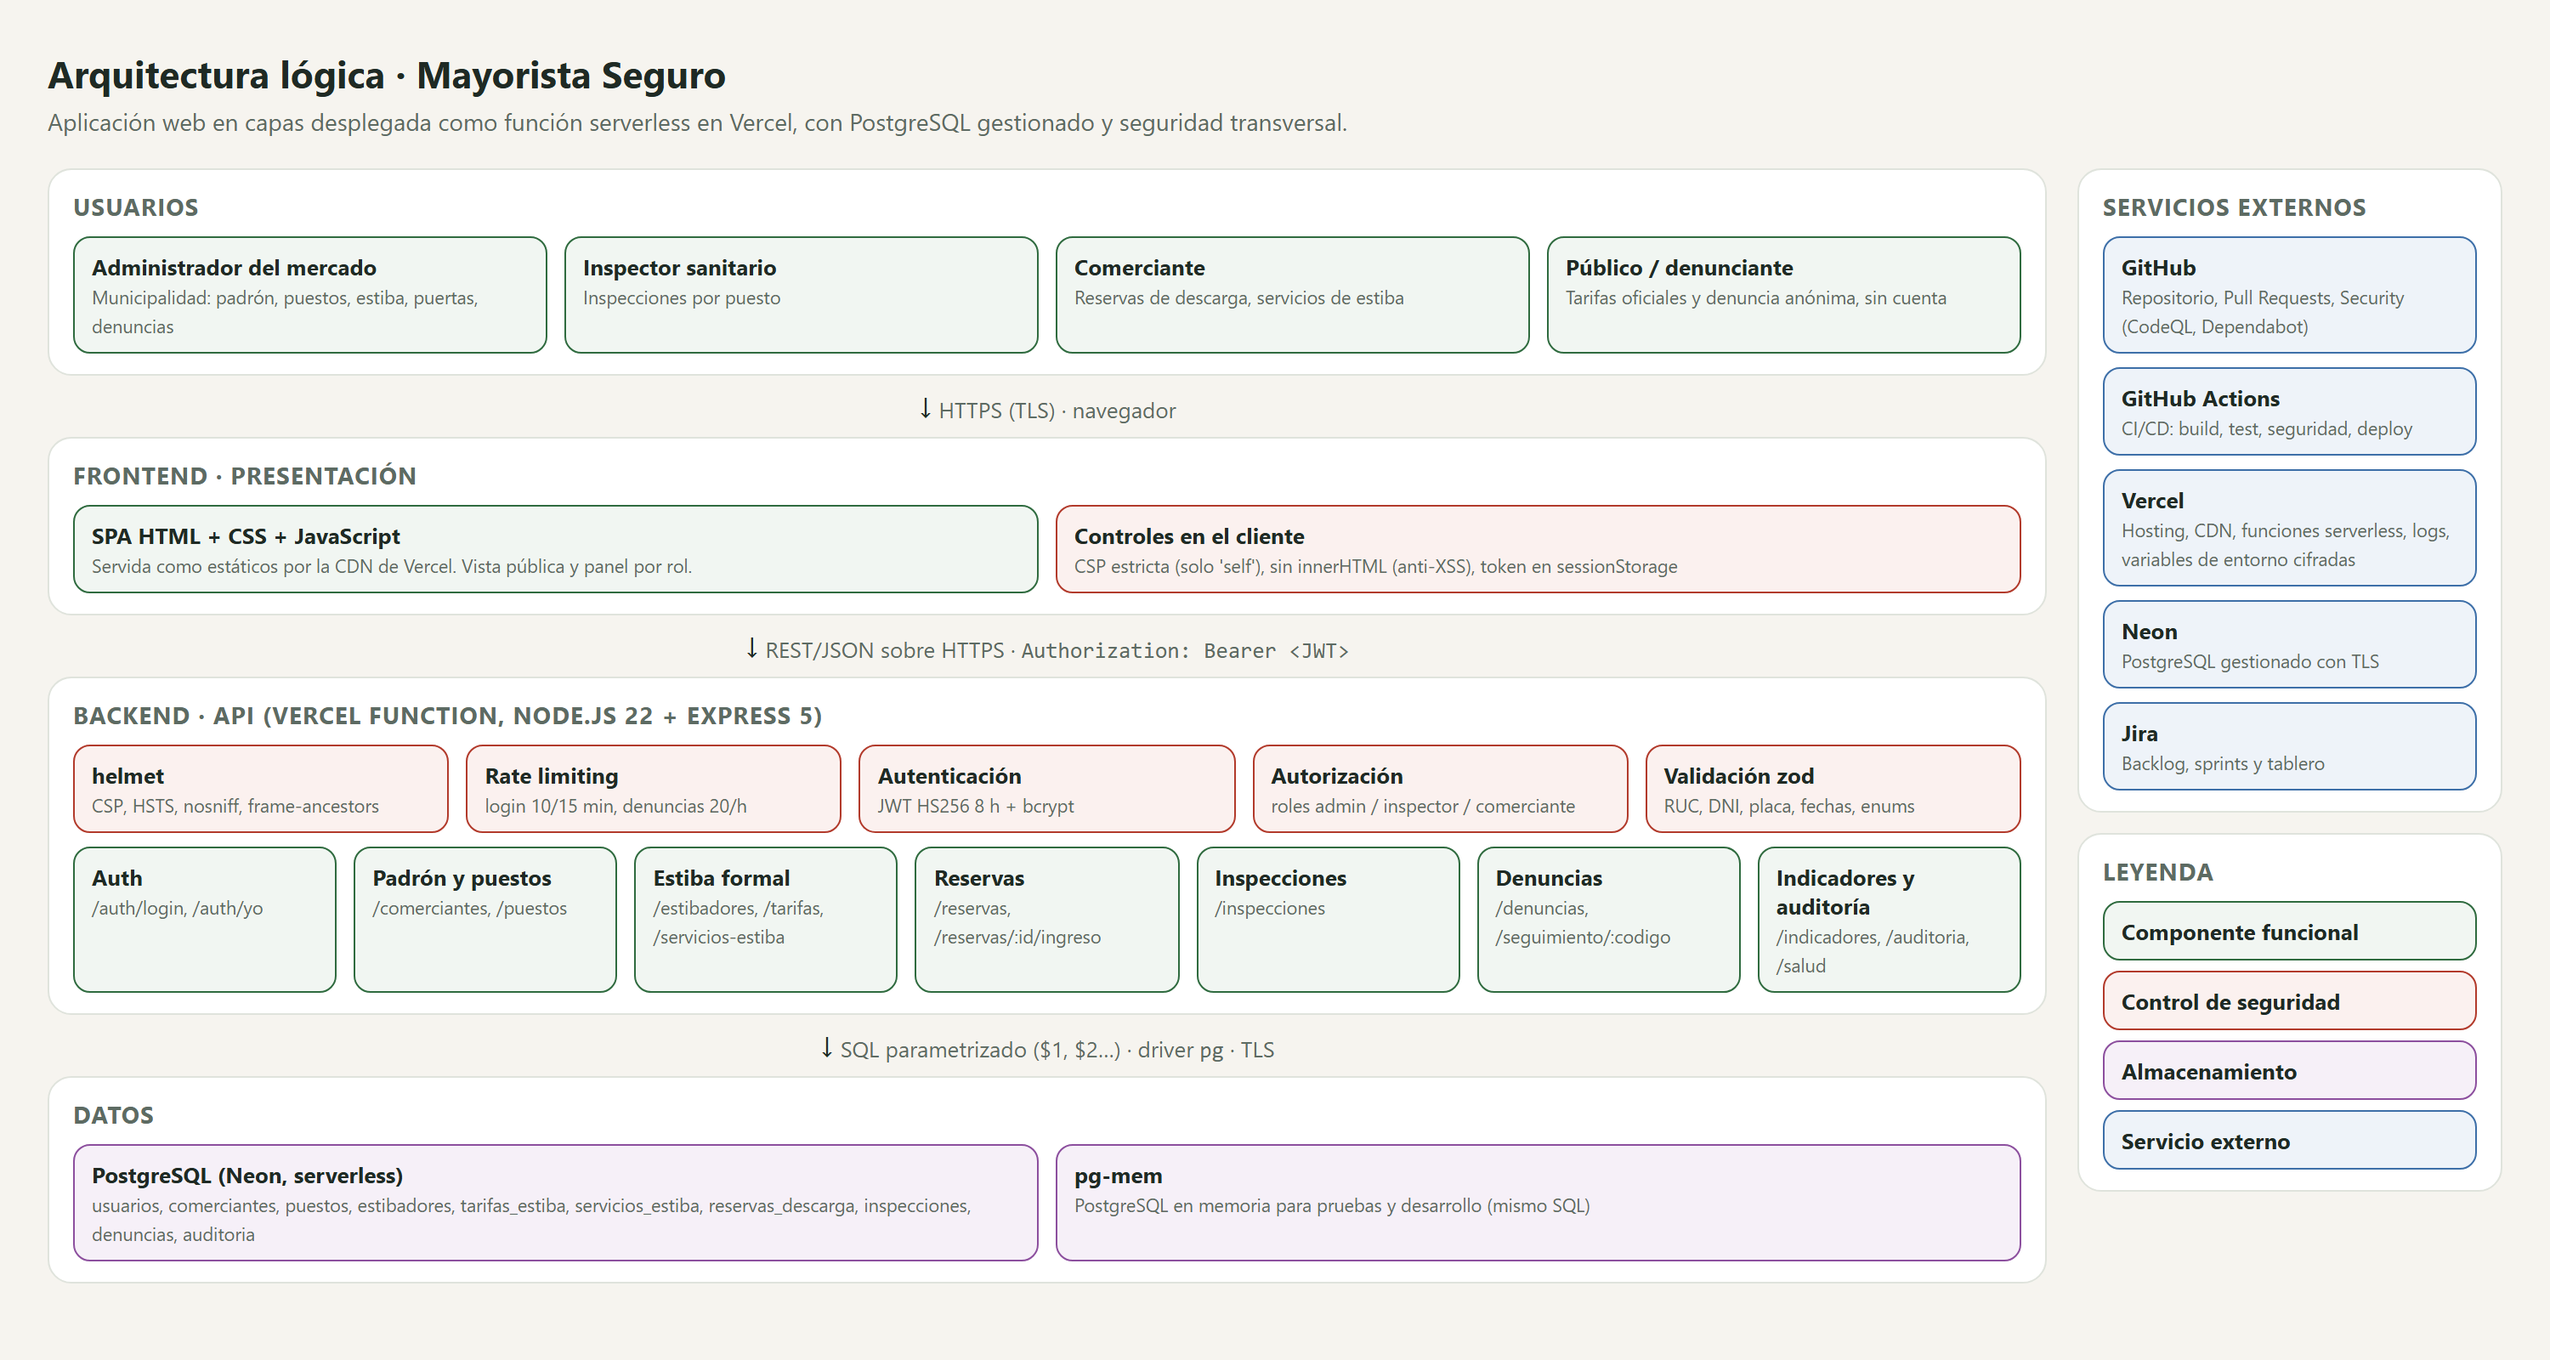
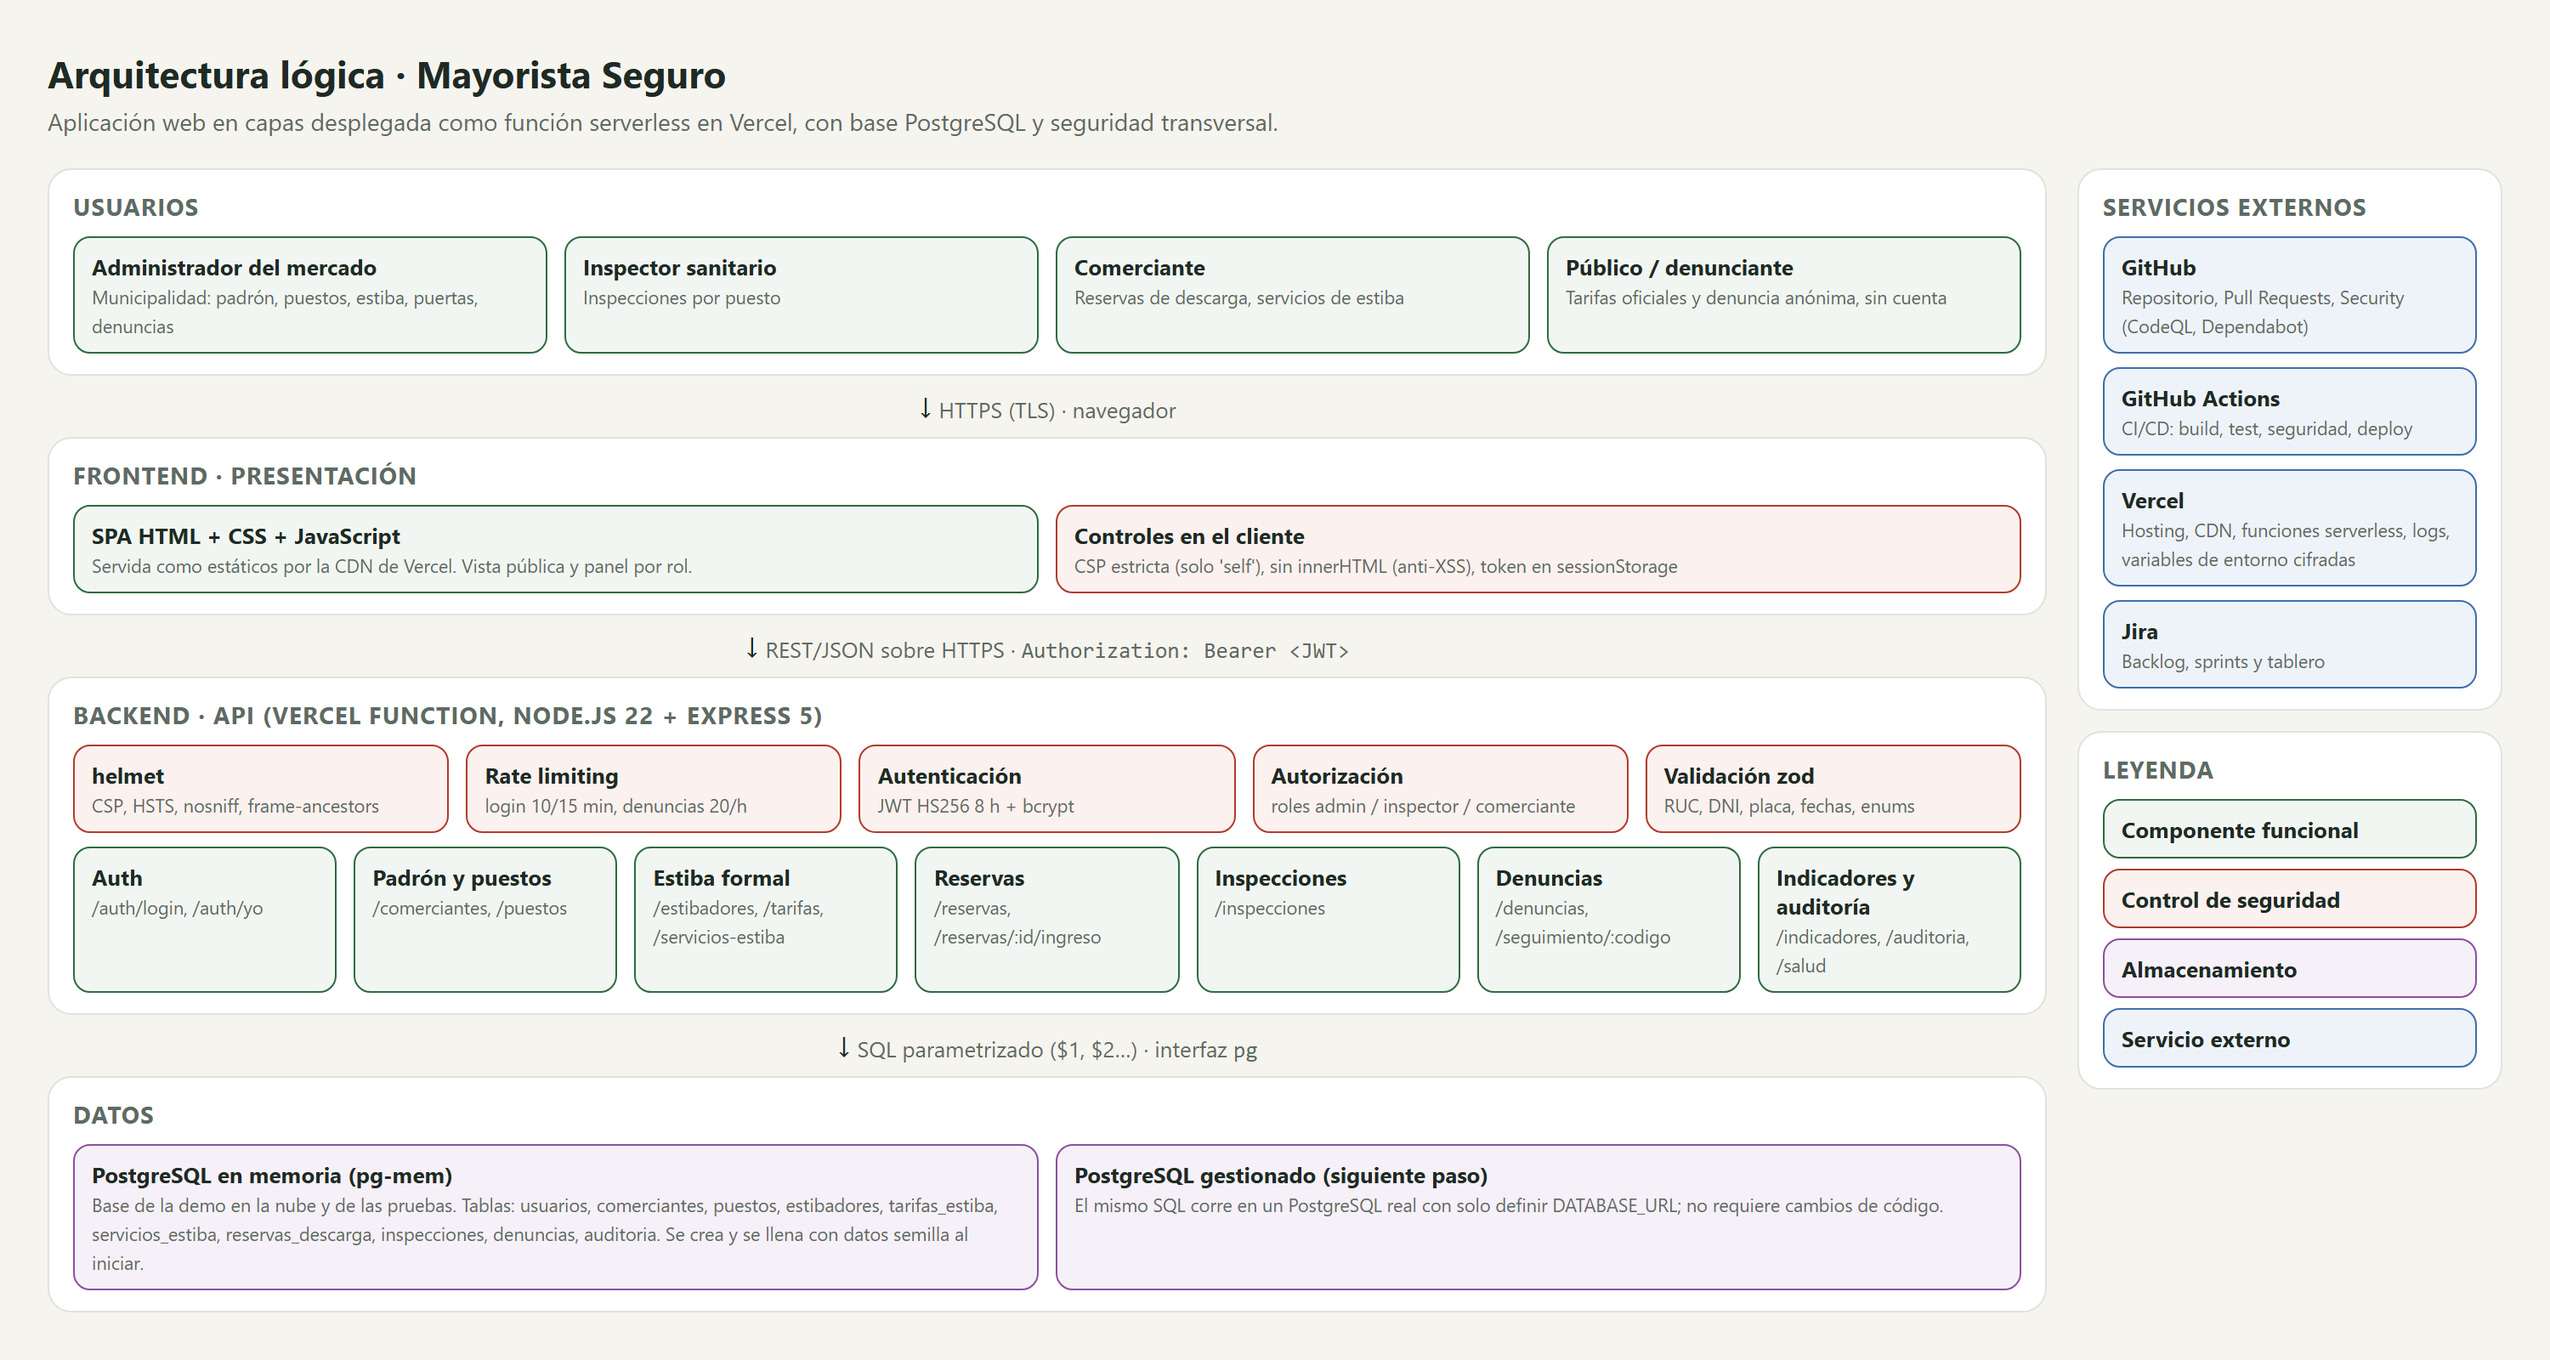
docs: arquitectura con PostgreSQL en memoria para la demo en la nube

diff --git a/docs/html/devsecops.html b/docs/html/devsecops.html
@@ -17,6 +17,6 @@ h1 { font-size: 22px; margin: 0 0 4px; }
 <h1>Ciclo de vida DevSecOps · herramientas y seguridad por fase</h1>
 <p class='sub'>La seguridad se mueve a la izquierda (shift-left): cada fase tiene un control automático que bloquea el avance si falla.</p>
 <div class='cab'><div>#</div><div>Fase</div><div>Herramienta</div><div>Uso en el proyecto</div><div>Control de seguridad integrado</div></div>
-<div class='fase'><div class='n'>1</div><div class='nom'>Plan</div><div class='c herr'><b>Jira Software (Scrum)</b></div><div class='c'>Backlog con 6 épicas y 24 historias, sprints, tablero Kanban</div><div class='c seg'>Historias de seguridad (HU04, HU05, HU06, HU09) y casos de abuso del caso (cupos, extorsión) como criterios de aceptación</div></div><div class='fase'><div class='n'>2</div><div class='nom'>Code</div><div class='c herr'><b>Git + GitHub, VS Code, ESLint</b></div><div class='c'>Ramas main / test / feature, commits convencionales, Pull Requests</div><div class='c seg'>Validación zod, SQL parametrizado, sin innerHTML, ESLint no-eval; revisión obligatoria vía PR</div></div><div class='fase'><div class='n'>3</div><div class='nom'>Build</div><div class='c herr'><b>GitHub Actions + npm ci</b></div><div class='c'>Instalación reproducible con lockfile, lint y verificación de build</div><div class='c seg'>npm audit (SCA) y Dependabot sobre dependencias y actions</div></div><div class='fase'><div class='n'>4</div><div class='nom'>Test</div><div class='c herr'><b>node:test + supertest</b></div><div class='c'>31 pruebas de integración con cobertura y reporte JUnit</div><div class='c seg'>Pruebas de seguridad: token manipulado, 403 por rol, inyección SQL, enumeración de usuarios</div></div><div class='fase'><div class='n'>5</div><div class='nom'>Release</div><div class='c herr'><b>Pull Request test → main</b></div><div class='c'>Solo se fusiona con el pipeline en verde</div><div class='c seg'>SAST con CodeQL y Semgrep, Gitleaks (secretos), dependency review</div></div><div class='fase'><div class='n'>6</div><div class='nom'>Deploy</div><div class='c herr'><b>Vercel CLI desde Actions</b></div><div class='c'>main → producción, test → preview, prueba de humo</div><div class='c seg'>Token en GitHub Secrets, JWT_SECRET y DATABASE_URL como variables cifradas, HTTPS + HSTS</div></div><div class='fase'><div class='n'>7</div><div class='nom'>Operate</div><div class='c herr'><b>Vercel Functions + Neon PostgreSQL</b></div><div class='c'>Serverless con escalado automático</div><div class='c seg'>helmet/CSP, rate limiting, roles de mínimo privilegio, TLS hacia la base</div></div><div class='fase'><div class='n'>8</div><div class='nom'>Monitor</div><div class='c herr'><b>Vercel logs, /api/salud, auditoría</b></div><div class='c'>Indicadores de negocio y salud del servicio</div><div class='c seg'>Tabla de auditoría, CodeQL semanal programado, alertas de Dependabot</div></div>
+<div class='fase'><div class='n'>1</div><div class='nom'>Plan</div><div class='c herr'><b>Jira Software (Scrum)</b></div><div class='c'>Backlog con 6 épicas y 24 historias, sprints, tablero Kanban</div><div class='c seg'>Historias de seguridad (HU04, HU05, HU06, HU09) y casos de abuso del caso (cupos, extorsión) como criterios de aceptación</div></div><div class='fase'><div class='n'>2</div><div class='nom'>Code</div><div class='c herr'><b>Git + GitHub, VS Code, ESLint</b></div><div class='c'>Ramas main / test / feature, commits convencionales, Pull Requests</div><div class='c seg'>Validación zod, SQL parametrizado, sin innerHTML, ESLint no-eval; revisión obligatoria vía PR</div></div><div class='fase'><div class='n'>3</div><div class='nom'>Build</div><div class='c herr'><b>GitHub Actions + npm ci</b></div><div class='c'>Instalación reproducible con lockfile, lint y verificación de build</div><div class='c seg'>npm audit (SCA) y Dependabot sobre dependencias y actions</div></div><div class='fase'><div class='n'>4</div><div class='nom'>Test</div><div class='c herr'><b>node:test + supertest</b></div><div class='c'>31 pruebas de integración con cobertura y reporte JUnit</div><div class='c seg'>Pruebas de seguridad: token manipulado, 403 por rol, inyección SQL, enumeración de usuarios</div></div><div class='fase'><div class='n'>5</div><div class='nom'>Release</div><div class='c herr'><b>Pull Request test → main</b></div><div class='c'>Solo se fusiona con el pipeline en verde</div><div class='c seg'>SAST con CodeQL y Semgrep, Gitleaks (secretos), dependency review</div></div><div class='fase'><div class='n'>6</div><div class='nom'>Deploy</div><div class='c herr'><b>Vercel CLI desde Actions</b></div><div class='c'>main → producción, test → preview, prueba de humo</div><div class='c seg'>Token en GitHub Secrets, JWT_SECRET como variable cifrada de Vercel, HTTPS + HSTS</div></div><div class='fase'><div class='n'>7</div><div class='nom'>Operate</div><div class='c herr'><b>Vercel Functions</b></div><div class='c'>Serverless con escalado automático y base PostgreSQL en memoria</div><div class='c seg'>helmet/CSP, rate limiting, roles de mínimo privilegio, JWT_SECRET cifrado</div></div><div class='fase'><div class='n'>8</div><div class='nom'>Monitor</div><div class='c herr'><b>Vercel logs, /api/salud, auditoría</b></div><div class='c'>Indicadores de negocio y salud del servicio</div><div class='c seg'>Tabla de auditoría, CodeQL semanal programado, alertas de Dependabot</div></div>
 <p class='loop'>Monitor retroalimenta Plan: hallazgos de CodeQL/Dependabot, denuncias y auditoría generan nuevas historias en el backlog de Jira.</p>
 </body></html>

diff --git a/docs/html/arquitectura.html b/docs/html/arquitectura.html
@@ -19,7 +19,7 @@ h1 { font-size: 22px; margin: 0 0 4px; }
 .lado .capa { margin-bottom:12px; }
 </style></head><body>
 <h1>Arquitectura lógica · Mayorista Seguro</h1>
-<p class='sub'>Aplicación web en capas desplegada como función serverless en Vercel, con PostgreSQL gestionado y seguridad transversal.</p>
+<p class='sub'>Aplicación web en capas desplegada como función serverless en Vercel, con base PostgreSQL y seguridad transversal.</p>
 <div class='wrap'><div>
  <div class='capa'><h3>Usuarios</h3><div class='fila'>
   <div class='box'><b>Administrador del mercado</b><small>Municipalidad: padrón, puestos, estiba, puertas, denuncias</small></div>
@@ -50,10 +50,10 @@ h1 { font-size: 22px; margin: 0 0 4px; }
    <div class='box'><b>Denuncias</b><small>/denuncias, /seguimiento/:codigo</small></div>
    <div class='box'><b>Indicadores y auditoría</b><small>/indicadores, /auditoria, /salud</small></div>
   </div></div>
- <div class='flecha'><b>↓</b> SQL parametrizado ($1, $2…) · driver <code>pg</code> · TLS</div>
+ <div class='flecha'><b>↓</b> SQL parametrizado ($1, $2…) · interfaz <code>pg</code></div>
  <div class='capa'><h3>Datos</h3><div class='fila'>
-  <div class='box db'><b>PostgreSQL (Neon, serverless)</b><small>usuarios, comerciantes, puestos, estibadores, tarifas_estiba, servicios_estiba, reservas_descarga, inspecciones, denuncias, auditoria</small></div>
-  <div class='box db'><b>pg-mem</b><small>PostgreSQL en memoria para pruebas y desarrollo (mismo SQL)</small></div>
+  <div class='box db'><b>PostgreSQL en memoria (pg-mem)</b><small>Base de la demo en la nube y de las pruebas. Tablas: usuarios, comerciantes, puestos, estibadores, tarifas_estiba, servicios_estiba, reservas_descarga, inspecciones, denuncias, auditoria. Se crea y se llena con datos semilla al iniciar.</small></div>
+  <div class='box db'><b>PostgreSQL gestionado (siguiente paso)</b><small>El mismo SQL corre en un PostgreSQL real con solo definir DATABASE_URL; no requiere cambios de código.</small></div>
  </div></div>
 </div>
 <div class='lado'>
@@ -61,7 +61,6 @@ h1 { font-size: 22px; margin: 0 0 4px; }
   <div class='box ext' style='margin-bottom:8px'><b>GitHub</b><small>Repositorio, Pull Requests, Security (CodeQL, Dependabot)</small></div>
   <div class='box ext' style='margin-bottom:8px'><b>GitHub Actions</b><small>CI/CD: build, test, seguridad, deploy</small></div>
   <div class='box ext' style='margin-bottom:8px'><b>Vercel</b><small>Hosting, CDN, funciones serverless, logs, variables de entorno cifradas</small></div>
-  <div class='box ext' style='margin-bottom:8px'><b>Neon</b><small>PostgreSQL gestionado con TLS</small></div>
   <div class='box ext'><b>Jira</b><small>Backlog, sprints y tablero</small></div>
  </div>
  <div class='capa'><h3>Leyenda</h3>

diff --git a/docs/planificacion/generar_diagramas.py b/docs/planificacion/generar_diagramas.py
@@ -107,7 +107,7 @@ ARQ = """<!doctype html><html lang='es'><head><meta charset='utf-8'><style>""" +
 .lado .capa { margin-bottom:12px; }
 </style></head><body>
 <h1>Arquitectura lógica · Mayorista Seguro</h1>
-<p class='sub'>Aplicación web en capas desplegada como función serverless en Vercel, con PostgreSQL gestionado y seguridad transversal.</p>
+<p class='sub'>Aplicación web en capas desplegada como función serverless en Vercel, con base PostgreSQL y seguridad transversal.</p>
 <div class='wrap'><div>
  <div class='capa'><h3>Usuarios</h3><div class='fila'>
   <div class='box'><b>Administrador del mercado</b><small>Municipalidad: padrón, puestos, estiba, puertas, denuncias</small></div>
@@ -138,10 +138,10 @@ ARQ = """<!doctype html><html lang='es'><head><meta charset='utf-8'><style>""" +
    <div class='box'><b>Denuncias</b><small>/denuncias, /seguimiento/:codigo</small></div>
    <div class='box'><b>Indicadores y auditoría</b><small>/indicadores, /auditoria, /salud</small></div>
   </div></div>
- <div class='flecha'><b>↓</b> SQL parametrizado ($1, $2…) · driver <code>pg</code> · TLS</div>
+ <div class='flecha'><b>↓</b> SQL parametrizado ($1, $2…) · interfaz <code>pg</code></div>
  <div class='capa'><h3>Datos</h3><div class='fila'>
-  <div class='box db'><b>PostgreSQL (Neon, serverless)</b><small>usuarios, comerciantes, puestos, estibadores, tarifas_estiba, servicios_estiba, reservas_descarga, inspecciones, denuncias, auditoria</small></div>
-  <div class='box db'><b>pg-mem</b><small>PostgreSQL en memoria para pruebas y desarrollo (mismo SQL)</small></div>
+  <div class='box db'><b>PostgreSQL en memoria (pg-mem)</b><small>Base de la demo en la nube y de las pruebas. Tablas: usuarios, comerciantes, puestos, estibadores, tarifas_estiba, servicios_estiba, reservas_descarga, inspecciones, denuncias, auditoria. Se crea y se llena con datos semilla al iniciar.</small></div>
+  <div class='box db'><b>PostgreSQL gestionado (siguiente paso)</b><small>El mismo SQL corre en un PostgreSQL real con solo definir DATABASE_URL; no requiere cambios de código.</small></div>
  </div></div>
 </div>
 <div class='lado'>
@@ -149,7 +149,6 @@ ARQ = """<!doctype html><html lang='es'><head><meta charset='utf-8'><style>""" +
   <div class='box ext' style='margin-bottom:8px'><b>GitHub</b><small>Repositorio, Pull Requests, Security (CodeQL, Dependabot)</small></div>
   <div class='box ext' style='margin-bottom:8px'><b>GitHub Actions</b><small>CI/CD: build, test, seguridad, deploy</small></div>
   <div class='box ext' style='margin-bottom:8px'><b>Vercel</b><small>Hosting, CDN, funciones serverless, logs, variables de entorno cifradas</small></div>
-  <div class='box ext' style='margin-bottom:8px'><b>Neon</b><small>PostgreSQL gestionado con TLS</small></div>
   <div class='box ext'><b>Jira</b><small>Backlog, sprints y tablero</small></div>
  </div>
  <div class='capa'><h3>Leyenda</h3>
@@ -166,8 +165,8 @@ FASES = [
     ('Build', 'GitHub Actions + npm ci', 'Instalación reproducible con lockfile, lint y verificación de build', 'npm audit (SCA) y Dependabot sobre dependencias y actions'),
     ('Test', 'node:test + supertest', '31 pruebas de integración con cobertura y reporte JUnit', 'Pruebas de seguridad: token manipulado, 403 por rol, inyección SQL, enumeración de usuarios'),
     ('Release', 'Pull Request test → main', 'Solo se fusiona con el pipeline en verde', 'SAST con CodeQL y Semgrep, Gitleaks (secretos), dependency review'),
-    ('Deploy', 'Vercel CLI desde Actions', 'main → producción, test → preview, prueba de humo', 'Token en GitHub Secrets, JWT_SECRET y DATABASE_URL como variables cifradas, HTTPS + HSTS'),
-    ('Operate', 'Vercel Functions + Neon PostgreSQL', 'Serverless con escalado automático', 'helmet/CSP, rate limiting, roles de mínimo privilegio, TLS hacia la base'),
+    ('Deploy', 'Vercel CLI desde Actions', 'main → producción, test → preview, prueba de humo', 'Token en GitHub Secrets, JWT_SECRET como variable cifrada de Vercel, HTTPS + HSTS'),
+    ('Operate', 'Vercel Functions', 'Serverless con escalado automático y base PostgreSQL en memoria', 'helmet/CSP, rate limiting, roles de mínimo privilegio, JWT_SECRET cifrado'),
     ('Monitor', 'Vercel logs, /api/salud, auditoría', 'Indicadores de negocio y salud del servicio', 'Tabla de auditoría, CodeQL semanal programado, alertas de Dependabot'),
 ]
 

diff --git a/README.md b/README.md
@@ -21,7 +21,7 @@ Navegador (HTML + JS sin frameworks, CSP estricta)
 Vercel ── función serverless Node.js 22 ── Express 5
               │  helmet · rate limit · zod · JWT/bcrypt · roles
               ▼
-        PostgreSQL (Neon) — o PostgreSQL en memoria (pg-mem) si no hay DATABASE_URL
+        PostgreSQL en memoria (pg-mem) con datos semilla — o PostgreSQL real si se define DATABASE_URL
 ```
 
 - `public/` frontend estático.
